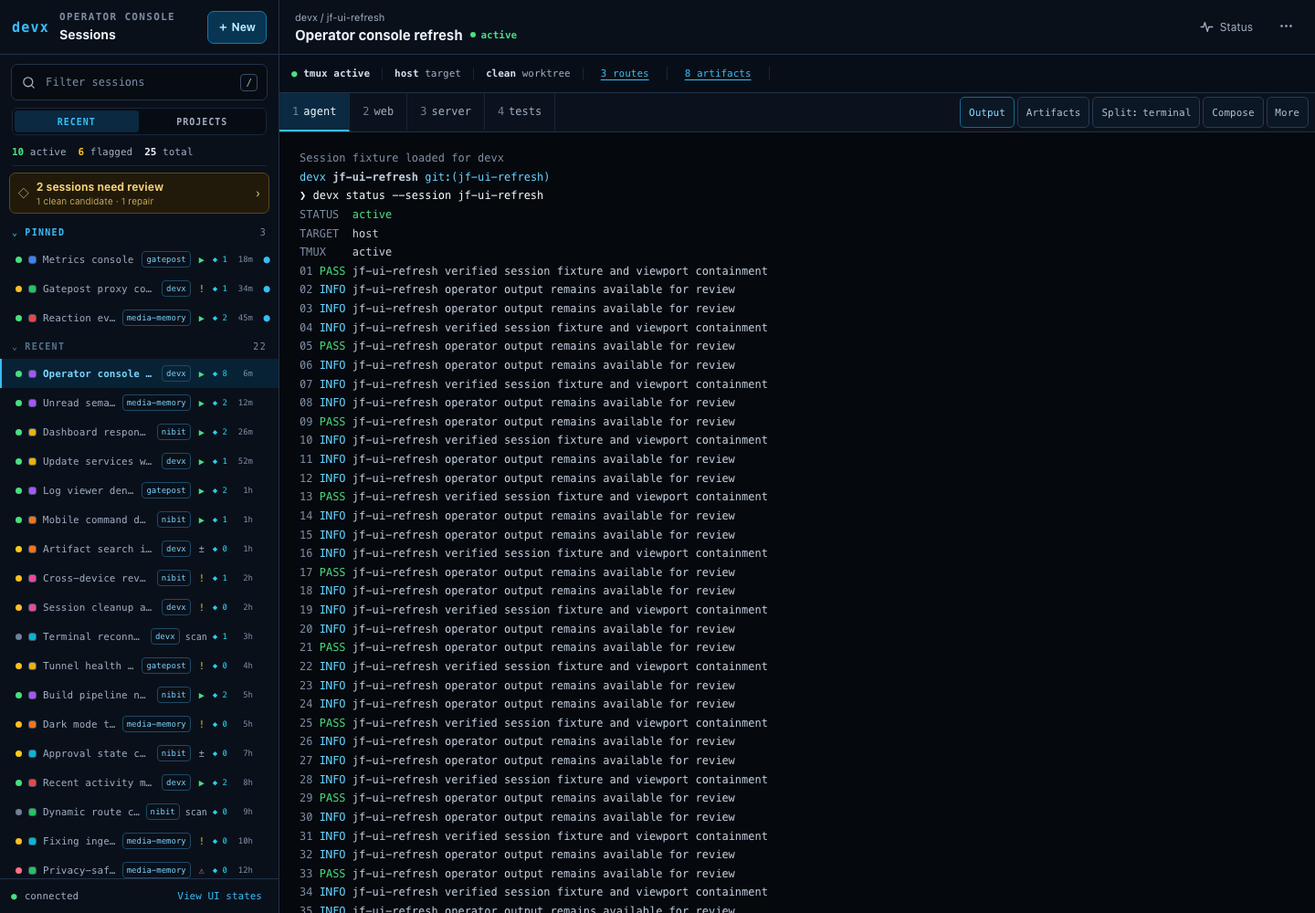
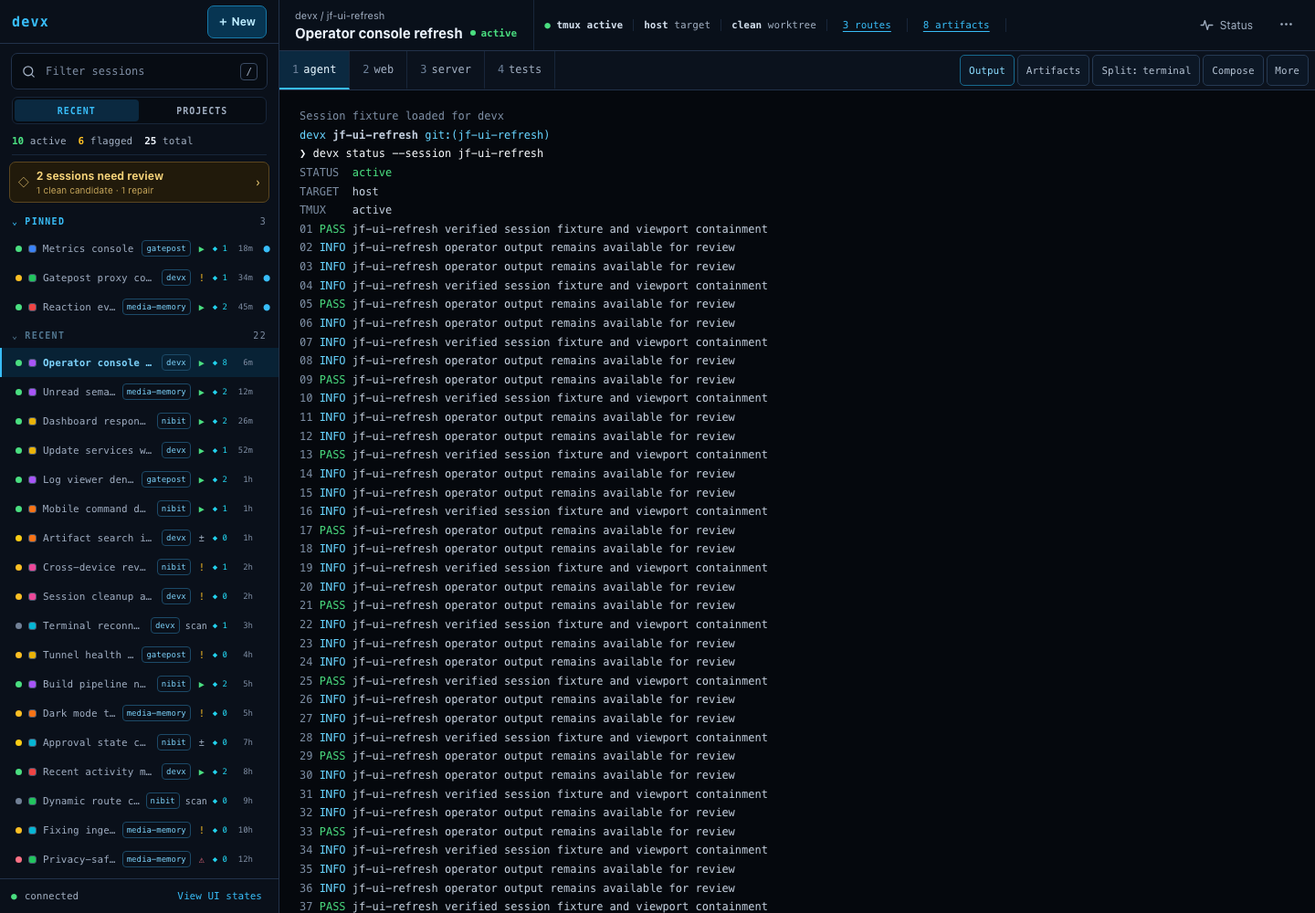
address header, artifact wrap, new-session parity, and mobile density feedback

diff --git a/design-prototypes/operator-console/index.html b/design-prototypes/operator-console/index.html
@@ -21,9 +21,9 @@
     .icon{width:17px;height:17px;fill:none;stroke:currentColor;stroke-width:1.8;stroke-linecap:round;stroke-linejoin:round;pointer-events:none}
     .shell{display:grid;grid-template-columns:306px minmax(0,1fr);width:100%;height:100dvh;min-width:0;min-height:0;overflow:hidden}.mono{font-family:var(--mono)}
     .navigator{min-width:0;min-height:0;height:100%;display:flex;flex-direction:column;background:var(--nav);border-right:1px solid var(--line);z-index:50;overflow:hidden}
-    .nav-head{height:60px;display:flex;align-items:center;gap:11px;padding:0 13px;border-bottom:1px solid var(--line)}
+    .nav-head{height:48px;display:flex;align-items:center;gap:11px;padding:0 13px;border-bottom:1px solid var(--line)}
     .brand{display:inline-flex;align-items:center;color:var(--blue);font:800 15px var(--mono);letter-spacing:.08em}
-    .title{min-width:0;flex:1}.eyebrow{color:var(--faint);font:700 11px/1 var(--mono);letter-spacing:.12em;text-transform:uppercase;margin-bottom:5px}.title strong{font-size:14px}
+    .nav-head .spacer{flex:1}
     .primary{min-height:36px;display:inline-flex;align-items:center;gap:6px;padding:0 11px;border:1px solid #1778a7;border-radius:7px;background:#073552;color:#bcecff;font-weight:700;font-size:12px}.primary:hover{background:#084567;border-color:var(--blue)}
     .search-wrap{padding:10px 12px 8px}.search{height:40px;display:flex;align-items:center;gap:8px;padding:0 10px;border:1px solid var(--line);border-radius:7px;background:#070c13;color:var(--muted)}.search:focus-within{border-color:var(--blue);color:var(--blue)}
     .search input{min-width:0;flex:1;border:0;outline:0;background:transparent;color:var(--text);font:12px var(--mono)}.search input::placeholder{color:var(--faint)}
@@ -43,27 +43,27 @@
     .meta{display:contents}.badge{display:inline-flex;align-items:center;min-height:18px;padding:1px 4px;border:1px solid #293a52;border-radius:4px;color:#7f91a8;font:9px var(--mono);white-space:nowrap}.badge.good{border-color:#23623a;color:#86efac}.badge.warn{border-color:#73551c;color:#fcd34d}.badge.blue{border:0;color:#22d3ee;padding:0}.session-state{min-width:12px;text-align:center;color:var(--muted);font:10px var(--mono)}.session-state.attention{color:var(--amber)}.session-state.active{color:var(--green)}.session-state.repair{color:var(--red)}.swatch{width:9px;height:9px;border:1px solid #46566d;border-radius:3px;background:#a855f7}
     .no-results{padding:30px 18px;text-align:center;color:var(--muted);font:12px var(--mono)}
     .nav-foot{min-height:38px;display:flex;align-items:center;gap:8px;padding:0 12px;border-top:1px solid var(--line);color:var(--muted);font:11px var(--mono)}.nav-foot button{margin-left:auto;border:0;background:transparent;color:var(--blue)}
-    .workspace{min-width:0;min-height:0;height:100%;display:flex;flex-direction:column;overflow:hidden;background:var(--canvas)}.topbar{height:60px;flex:0 0 auto;display:flex;align-items:center;border-bottom:1px solid var(--line);background:#09101a}.mobile-menu{display:none}
-    .context{min-width:0;flex:1;padding:0 17px}.crumbs{color:var(--muted);font-size:11px}.context-title{display:flex;align-items:center;gap:9px;margin-top:4px}.context-title h1{margin:0;overflow:hidden;font-size:15px;text-overflow:ellipsis;white-space:nowrap}.live-pill{display:inline-flex;align-items:center;gap:5px;color:var(--green);font:700 11px var(--mono)}.live-pill:before{content:"";width:6px;height:6px;border-radius:50%;background:currentColor}
+    .workspace{min-width:0;min-height:0;height:100%;display:flex;flex-direction:column;overflow:hidden;background:var(--canvas)}.topbar{min-height:56px;height:auto;flex:0 0 auto;display:flex;align-items:center;gap:4px;border-bottom:1px solid var(--line);background:#09101a}.mobile-menu{display:none}
+    .context{min-width:0;flex:0 1 auto;max-width:min(42%,430px);padding:0 14px 0 17px}.crumbs{color:var(--muted);font-size:11px}.context-title{display:flex;align-items:center;gap:9px;margin-top:4px}.context-title h1{margin:0;overflow:hidden;font-size:15px;text-overflow:ellipsis;white-space:nowrap}.live-pill{display:inline-flex;align-items:center;gap:5px;color:var(--green);font:700 11px var(--mono)}.live-pill:before{content:"";width:6px;height:6px;border-radius:50%;background:currentColor}
     .top-actions{display:flex;align-items:center;gap:5px;padding:0 12px}.ghost,.icon-btn{min-height:38px;border:1px solid transparent;border-radius:7px;background:transparent;color:var(--muted);font-size:12px}.ghost{display:inline-flex;align-items:center;gap:6px;padding:0 10px}.icon-btn{width:40px}.ghost:hover,.icon-btn:hover,.ghost[aria-expanded="true"],.icon-btn[aria-expanded="true"]{background:#112033;border-color:#2c4766;color:var(--blue)}
-    .facts{min-height:42px;display:flex;align-items:center;border-bottom:1px solid var(--line);background:#080e17;overflow-x:auto;scrollbar-width:thin}.fact{min-width:max-content;padding:0 13px;border-right:1px solid var(--line2);color:var(--muted);font:11px var(--mono)}.fact b{color:#d5e1ef;font-weight:600}.fact .good{color:var(--green)}.fact-button{border:0;background:transparent;color:var(--blue);text-decoration:underline;text-underline-offset:3px}
+    .facts{min-width:0;flex:1;display:flex;align-items:center;align-self:stretch;overflow-x:auto;scrollbar-width:thin;border-left:1px solid var(--line2)}.fact{min-width:max-content;padding:0 11px;border-right:1px solid var(--line2);color:var(--muted);font:11px var(--mono)}.fact b{color:#d5e1ef;font-weight:600}.fact .good{color:var(--green)}.fact-button{border:0;background:transparent;color:var(--blue);text-decoration:underline;text-underline-offset:3px}
     .windowbar{min-height:43px;display:flex;align-items:stretch;border-bottom:1px solid var(--line);background:#0b121d}.tabs{min-width:0;flex:1;display:flex;overflow-x:auto;scrollbar-width:none}.tab{min-width:max-content;padding:0 14px;border:0;border-right:1px solid var(--line2);border-bottom:2px solid transparent;background:transparent;color:var(--muted);font:12px var(--mono)}.tab.active{border-bottom-color:var(--blue);background:#0b2940;color:#e7f7ff}.tab .index{color:#6e829b;margin-right:5px}
     .terminal-actions{display:flex;align-items:center;padding:3px 7px;gap:3px}.action{min-height:34px;display:inline-flex;align-items:center;gap:5px;padding:0 9px;border:1px solid #263a53;border-radius:5px;background:#0c1725;color:#b3c1d2;font:11px var(--mono);white-space:nowrap}.action:hover,.action.active{border-color:#2876a3;background:#102b42;color:#8bdcff}.action.primary-action{border-color:#17698e;color:#8bdcff}.mobile-actions-trigger{display:none;min-height:36px;padding:0 11px;border:1px solid #2876a3;border-radius:5px;background:#0c2b42;color:#a6e8ff;font:700 11px var(--mono);white-space:nowrap}
     .body-row{position:relative;min-width:0;min-height:0;flex:1;display:flex;overflow:hidden}.stage{position:relative;min-width:0;min-height:0;flex:1;display:flex;overflow:hidden;background:#05080d}.pane-wrap{min-width:0;min-height:0;display:flex;flex:1;overflow:hidden}.terminal-pane{min-width:0;min-height:0;flex:1;overflow:hidden}.terminal{height:100%;min-height:0;padding:18px 22px;overflow:auto;color:#c3cfde;font:12px/1.72 var(--mono)}.term-row{white-space:pre-wrap}.dim{color:#7c8da3}.green{color:var(--green)}.cyan{color:#67d4ff}.amber{color:var(--amber)}.command{color:#f6f9fc}.cursor{display:inline-block;width:7px;height:14px;vertical-align:-2px;background:var(--blue)}
-    .artifact-panel{display:none;width:390px;min-width:300px;min-height:0;border-left:1px solid var(--line);background:#0b121d;overflow:hidden;flex-direction:column}.artifact-panel.open{display:flex}.artifact-panel.fullscreen{position:fixed!important;z-index:1000;inset:0!important;width:100%!important;height:100dvh!important;border:0!important}.pane-wrap.horizontal{flex-direction:column}.pane-wrap.horizontal .artifact-panel{width:auto;height:48%;border-left:0;border-top:1px solid var(--line)}.pane-wrap.artifacts-only .terminal-pane{display:none}.pane-wrap.artifacts-only .artifact-panel{width:100%;border-left:0}.artifact-head{min-height:44px;display:flex;align-items:center;gap:7px;padding:5px 8px;border-bottom:1px solid var(--line);background:#0a101a}.artifact-head strong{font:700 12px var(--mono);color:#8bdcff}.artifact-head .spacer{flex:1}.artifact-head label{display:flex;align-items:center;gap:4px;color:var(--muted);font:10px var(--mono)}.artifact-head select{height:28px;border:1px solid #2b4664;border-radius:4px;background:#08101a;color:var(--text);font:10px var(--mono)}.artifact-tool{min-height:30px;padding:0 7px;border:1px solid #2b4664;border-radius:4px;background:#0e1c2c;color:#b8c6d8;font:10px var(--mono);white-space:nowrap}.artifact-tool:hover{border-color:#2980ad;color:#9ee6ff}.artifact-mobile-menu{display:none}.artifact-list-wrap{height:190px;flex:0 0 auto;overflow:auto;border-bottom:1px solid var(--line)}.artifact-list-wrap.collapsed{display:none}.artifact-resizer{height:7px;flex:0 0 auto;border:0;border-bottom:1px solid var(--line);background:#111d2c;cursor:row-resize}.artifact-resizer:hover{background:#115072}.artifact-list-item{width:100%;min-height:45px;display:block;padding:7px 10px;border:0;border-bottom:1px solid var(--line2);background:transparent;text-align:left}.artifact-list-item:hover{background:#102033}.artifact-list-item.selected{background:#0a2940;box-shadow:inset 2px 0 var(--blue)}.artifact-folder{padding:7px 10px 5px;border-bottom:1px solid var(--line2);background:#08101a;color:#6f8ba8;font:800 9px var(--mono);letter-spacing:.08em;text-transform:uppercase}.artifact-list-item b{display:block;overflow:hidden;color:#dce7f3;font:11px var(--mono);text-overflow:ellipsis;white-space:nowrap}.artifact-list-item span{display:block;margin-top:3px;color:var(--faint);font:9px var(--mono)}.artifact-preview-head{min-height:43px;display:flex;align-items:center;gap:5px;padding:5px 9px;border-bottom:1px solid var(--line)}.artifact-preview-head .preview-title{min-width:0;flex:1}.artifact-preview-head b,.artifact-preview-head small{display:block;overflow:hidden;text-overflow:ellipsis;white-space:nowrap}.artifact-preview-head b{font-size:11px}.artifact-preview-head small{margin-top:2px;color:var(--faint);font:9px var(--mono)}.artifact-preview{min-height:0;flex:1;overflow:auto;padding:16px;background:#070b11}.artifact-preview.dragging{outline:2px dashed var(--blue);outline-offset:-8px;background:#082033}.artifact-preview pre{margin:0;color:#d4deea;font:11px/1.65 var(--mono);white-space:pre-wrap}.artifact-preview iframe,.artifact-preview video{display:block;width:100%;min-height:260px;border:1px solid var(--line);border-radius:6px;background:#fff}.artifact-intake{color:var(--faint);font:9px var(--mono);white-space:nowrap}.artifact-preview .jsx-card{max-width:620px;margin:12px auto;padding:24px;border:1px solid #315071;border-radius:12px;background:linear-gradient(145deg,#102e47,#101826)}.artifact-preview .jsx-card h2{margin:0;color:#7dd3fc}.artifact-preview .jsx-card p{color:#bac7d8;line-height:1.6}.small-btn{min-height:32px;padding:0 8px;border:1px solid #2b4664;border-radius:5px;background:#102037;color:#9bdfff;font:11px var(--mono)}
+    .artifact-panel{display:none;width:390px;min-width:300px;min-height:0;border-left:1px solid var(--line);background:#0b121d;overflow:hidden;flex-direction:column}.artifact-panel.open{display:flex}.artifact-panel.fullscreen{position:fixed!important;z-index:1000;inset:0!important;width:100%!important;height:100dvh!important;border:0!important}.pane-wrap.horizontal{flex-direction:column}.pane-wrap.horizontal .artifact-panel{width:auto;height:48%;border-left:0;border-top:1px solid var(--line)}.pane-wrap.artifacts-only .terminal-pane{display:none}.pane-wrap.artifacts-only .artifact-panel{width:100%;border-left:0}.artifact-head{min-height:44px;display:flex;flex-wrap:wrap;row-gap:4px;align-items:center;gap:7px;padding:6px 8px;border-bottom:1px solid var(--line);background:#0a101a}.artifact-head strong{font:700 12px var(--mono);color:#8bdcff}.artifact-head .spacer{flex:1}.artifact-head label{display:flex;align-items:center;gap:4px;color:var(--muted);font:10px var(--mono)}.artifact-head select{height:28px;border:1px solid #2b4664;border-radius:4px;background:#08101a;color:var(--text);font:10px var(--mono)}.artifact-tool{min-height:30px;padding:0 7px;border:1px solid #2b4664;border-radius:4px;background:#0e1c2c;color:#b8c6d8;font:10px var(--mono);white-space:nowrap}.artifact-tool:hover{border-color:#2980ad;color:#9ee6ff}.artifact-mobile-menu{display:none}.artifact-list-wrap{height:190px;flex:0 0 auto;overflow:auto;border-bottom:1px solid var(--line)}.artifact-list-wrap.collapsed{display:none}.artifact-resizer{height:7px;flex:0 0 auto;border:0;border-bottom:1px solid var(--line);background:#111d2c;cursor:row-resize}.artifact-resizer:hover{background:#115072}.artifact-list-item{width:100%;min-height:45px;display:block;padding:7px 10px;border:0;border-bottom:1px solid var(--line2);background:transparent;text-align:left}.artifact-list-item:hover{background:#102033}.artifact-list-item.selected{background:#0a2940;box-shadow:inset 2px 0 var(--blue)}.artifact-folder{padding:7px 10px 5px;border-bottom:1px solid var(--line2);background:#08101a;color:#6f8ba8;font:800 9px var(--mono);letter-spacing:.08em;text-transform:uppercase}.artifact-list-item b{display:block;overflow:hidden;color:#dce7f3;font:11px var(--mono);text-overflow:ellipsis;white-space:nowrap}.artifact-list-item span{display:block;margin-top:3px;color:var(--faint);font:9px var(--mono)}.artifact-preview-head{min-height:43px;display:flex;flex-wrap:wrap;row-gap:4px;align-items:center;gap:5px;padding:5px 9px;border-bottom:1px solid var(--line)}.artifact-preview-head .preview-title{min-width:0;flex:1}.artifact-preview-head b,.artifact-preview-head small{display:block;overflow:hidden;text-overflow:ellipsis;white-space:nowrap}.artifact-preview-head b{font-size:11px}.artifact-preview-head small{margin-top:2px;color:var(--faint);font:9px var(--mono)}.artifact-preview{min-height:0;flex:1;overflow:auto;padding:16px;background:#070b11}.artifact-preview.dragging{outline:2px dashed var(--blue);outline-offset:-8px;background:#082033}.artifact-preview pre{margin:0;color:#d4deea;font:11px/1.65 var(--mono);white-space:pre-wrap}.artifact-preview iframe,.artifact-preview video{display:block;width:100%;min-height:260px;border:1px solid var(--line);border-radius:6px;background:#fff}.artifact-intake{color:var(--faint);font:9px var(--mono);white-space:nowrap}.artifact-preview .jsx-card{max-width:620px;margin:12px auto;padding:24px;border:1px solid #315071;border-radius:12px;background:linear-gradient(145deg,#102e47,#101826)}.artifact-preview .jsx-card h2{margin:0;color:#7dd3fc}.artifact-preview .jsx-card p{color:#bac7d8;line-height:1.6}.small-btn{min-height:32px;padding:0 8px;border:1px solid #2b4664;border-radius:5px;background:#102037;color:#9bdfff;font:11px var(--mono)}
     .status-panel{display:none;min-width:0;min-height:0;flex:0 0 320px;border-left:1px solid var(--line);background:#0d1521;overflow:auto}.status-panel.open{display:block}.panel-head{min-height:52px;display:flex;align-items:center;padding:0 13px;border-bottom:1px solid var(--line)}.panel-head strong{font-size:13px}.panel-head button{margin-left:auto}.detail{padding:12px 14px;border-bottom:1px solid var(--line2)}.detail h2{margin:0 0 8px;color:var(--muted);font:700 11px var(--mono);text-transform:uppercase;letter-spacing:.08em}.detail p{margin:5px 0;color:#dbe5f1;font-size:12px}.route-link{display:flex;gap:8px;min-height:32px;align-items:center;color:#8bdcff;text-decoration:none;font:11px var(--mono)}
     .composer{display:none;position:absolute;z-index:15;left:7%;right:7%;bottom:22px;padding:10px;border:1px solid #245f85;border-radius:10px;background:#0d1827;box-shadow:0 18px 60px #0009}.composer.open{display:block}.composer-head{display:flex;margin-bottom:7px;color:#8bdcff;font:11px var(--mono)}.composer-head span:last-child{margin-left:auto;color:var(--muted)}.composer textarea{width:100%;min-height:74px;resize:vertical;padding:10px;border:1px solid #2a3e59;border-radius:6px;background:#050a11;color:var(--text);font:12px/1.5 var(--mono)}.composer-foot{display:flex;gap:7px;align-items:center;margin-top:8px}.composer-foot .spacer{flex:1}
     .drop-overlay{display:none;position:absolute;inset:10px;z-index:20;place-items:center;border:2px dashed var(--blue);border-radius:12px;background:#082f49dd;color:#b9edff;font:700 15px var(--mono)}.stage.dragging .drop-overlay{display:grid}
     .mobile-composer,.softkeys,.mobile-bottom{display:none}.scrim{display:none}.popover{position:absolute;z-index:1100;width:280px;padding:6px;border:1px solid #304561;border-radius:8px;background:#0d1725;box-shadow:0 20px 60px #0009}.popover button{width:100%;min-height:42px;padding:0 10px;border:0;border-radius:5px;background:transparent;text-align:left;color:#d4deea;font-size:12px}.popover button:hover{background:#102d47;color:#9fe4ff}.popover .danger{color:#fda4af}.session-menu{top:52px;right:10px}.actions-menu{top:108px;right:8px}.artifact-actions-menu{position:fixed;top:52px;right:8px}.menu-label{padding:7px 10px 4px;color:#698096;font:700 10px var(--mono);text-transform:uppercase;letter-spacing:.08em}.menu-divider{height:1px;margin:4px;background:var(--line)}.output-reader{position:fixed;z-index:1200;inset:0;display:flex;flex-direction:column;background:#020711}.output-reader-head{min-height:48px;display:flex;align-items:center;gap:10px;padding:0 14px;border-bottom:1px solid var(--line);background:#09111d}.output-reader-title{min-width:0;flex:1}.output-reader-title strong,.output-reader-title span{display:block;overflow:hidden;text-overflow:ellipsis;white-space:nowrap}.output-reader-title strong{color:#8bdcff;font:700 12px var(--mono)}.output-reader-title span{margin-top:3px;color:var(--muted);font:10px var(--mono)}.output-reader-body{min-height:0;flex:1;overflow:auto;padding:clamp(16px,3vw,42px);font:13px/1.75 var(--mono);color:#d2ddeb;white-space:pre-wrap}.output-reader-body pre{max-width:1100px;margin:0 auto;white-space:pre-wrap}.toast-stack{position:fixed;z-index:160;right:16px;bottom:16px;display:grid;gap:8px}.toast{width:min(340px,calc(100vw - 24px));padding:12px;border:1px solid #2b5776;border-radius:8px;background:#0d1b2b;box-shadow:0 16px 40px #0008;font-size:12px}.toast b{display:block;color:#8bdcff;margin-bottom:4px}.toast.flag{border-color:#6c521e}.toast.flag b{color:var(--amber)}.toast-media{display:grid;grid-template-columns:64px minmax(0,1fr);gap:10px}.toast-media img{width:64px;height:48px;object-fit:cover;border:1px solid var(--line);border-radius:5px;background:#06101a}.toast-actions{display:flex;gap:6px;margin-top:10px}.toast-actions button{min-height:32px;padding:0 8px;border:1px solid #315071;border-radius:5px;background:#102037;color:#bcecff}
-    dialog{width:min(620px,calc(100vw - 24px));max-height:calc(100dvh - 30px);padding:0;border:1px solid #315071;border-radius:10px;background:#0d1725;color:var(--text);box-shadow:0 30px 90px #000c}dialog::backdrop{background:#02050acc;backdrop-filter:blur(2px)}.dialog-head{min-height:56px;display:flex;align-items:center;padding:0 15px;border-bottom:1px solid var(--line)}.dialog-head strong{font-size:14px}.dialog-head button{margin-left:auto}.dialog-body{padding:15px;overflow:auto}.field{display:grid;gap:6px;margin-bottom:13px;color:var(--muted);font-size:12px}.field input,.field textarea,.field select{min-height:42px;padding:8px 10px;border:1px solid #334964;border-radius:6px;background:#070d15;color:var(--text)}.dialog-foot{display:flex;justify-content:flex-end;gap:8px;padding:12px 15px;border-top:1px solid var(--line)}
+    dialog{width:min(620px,calc(100vw - 24px));max-height:calc(100dvh - 30px);padding:0;border:1px solid #315071;border-radius:10px;background:#0d1725;color:var(--text);box-shadow:0 30px 90px #000c}dialog::backdrop{background:#02050acc;backdrop-filter:blur(2px)}.dialog-head{min-height:56px;display:flex;align-items:center;padding:0 15px;border-bottom:1px solid var(--line)}.dialog-head strong{font-size:14px}.dialog-head button{margin-left:auto}.dialog-body{padding:15px;overflow:auto}.field{display:grid;gap:6px;margin-bottom:13px;color:var(--muted);font-size:12px}.field input,.field textarea,.field select{min-height:42px;padding:8px 10px;border:1px solid #334964;border-radius:6px;background:#070d15;color:var(--text)}.type-field{border:0;padding:0;margin:0 0 13px}.type-field legend{display:flex;width:100%;gap:8px;margin-bottom:6px;padding:0;color:var(--muted);font-size:12px}.type-default{margin-left:auto;color:var(--faint);font:11px var(--mono)}.type-options{display:flex;gap:8px}.type-option{flex:1;display:flex;align-items:center;justify-content:center;gap:8px;min-height:42px;border:1px solid #334964;border-radius:6px;background:#070d15;color:var(--muted);font:12px var(--mono);cursor:pointer}.type-option input{accent-color:var(--blue2)}.type-option:has(input:checked){border-color:#1778a7;background:#0a2940;color:#8bdcff}.dialog-foot{display:flex;justify-content:flex-end;gap:8px;padding:12px 15px;border-top:1px solid var(--line)}
     .switch-list{display:grid;gap:4px}.switch-item{min-height:54px;padding:8px 10px;border:1px solid transparent;border-radius:7px;background:transparent;text-align:left}.switch-item.selected{border-color:#1778a7;background:#0a2940}.switch-item b{display:block;font-size:12px}.switch-item span{display:block;margin-top:4px;color:var(--muted);font:11px var(--mono)}
     .stale-grid,.state-grid{display:grid;grid-template-columns:repeat(2,minmax(0,1fr));gap:9px}.state-card{padding:12px;border:1px solid #2a3d56;border-radius:7px;background:#0a121d}.state-card h3{margin:0 0 6px;font-size:12px}.state-card p{margin:0;color:var(--muted);font-size:11px;line-height:1.45}.state-card.error{border-color:#653043}.state-card.reconnect{border-color:#6d5322}.stale-row{padding:11px;border:1px solid #3d4856;border-radius:7px}.stale-row b{display:block;font-size:12px}.stale-row p{margin:6px 0;color:var(--muted);font-size:11px}.stale-row .row-actions{display:flex;gap:6px;flex-wrap:wrap}.danger-btn{min-height:36px;padding:0 10px;border:1px solid #7e3344;border-radius:6px;background:#2c111a;color:#fda4af;font-size:12px}
     @media(max-width:1180px){.status-panel{position:absolute;z-index:35;inset:0 0 0 auto;width:min(360px,100%);border-left:1px solid var(--line);box-shadow:-18px 0 50px #0009}.status-panel.open{display:block}.pane-wrap.horizontal .artifact-panel{height:48%}}
     @media(max-width:1023px){
-      .shell{display:block}.navigator{position:fixed;inset:0 auto 0 0;width:min(360px,calc(100vw - 44px));transform:translateX(-105%);visibility:hidden;transition:transform .18s,visibility 0s linear .18s;box-shadow:22px 0 70px #000b}.navigator.open{transform:translateX(0);visibility:visible;transition-delay:0s}.scrim{position:fixed;inset:0;z-index:45;background:#000a}.scrim.open{display:block}.workspace{height:100dvh}.mobile-menu{display:grid;width:48px;height:100%;place-items:center;border:0;border-right:1px solid var(--line);background:transparent;color:var(--muted)}.topbar{height:56px}.facts{min-height:40px}.terminal{padding:16px}.terminal-actions .action{display:none}.mobile-actions-trigger{display:inline-flex;align-items:center}.actions-menu{top:101px}.artifact-panel{width:min(440px,100%)}
+      .shell{display:block}.navigator{position:fixed;inset:0 auto 0 0;width:min(360px,calc(100vw - 44px));transform:translateX(-105%);visibility:hidden;transition:transform .18s,visibility 0s linear .18s;box-shadow:22px 0 70px #000b}.navigator.open{transform:translateX(0);visibility:visible;transition-delay:0s}.scrim{position:fixed;inset:0;z-index:45;background:#000a}.scrim.open{display:block}.workspace{height:100dvh}.mobile-menu{display:grid;width:48px;align-self:stretch;place-items:center;border:0;border-right:1px solid var(--line);background:transparent;color:var(--muted)}.topbar{min-height:52px}.terminal{padding:16px}.terminal-actions .action{display:none}.mobile-actions-trigger{display:inline-flex;align-items:center}.actions-menu{top:101px}.artifact-panel{width:min(440px,100%)}
     }
     @media(max-width:600px){
-      body{font-size:12px}.workspace{height:calc(100dvh - 56px);padding-bottom:0}.context{padding:0 10px}.crumbs{font-size:10px}.context-title h1{font-size:13px}.top-actions{padding:0 6px}.top-actions .ghost span{display:none}.top-actions .ghost{width:40px;padding:0;justify-content:center}.facts .fact:nth-child(3){display:none}.windowbar{min-height:42px}.mobile-actions-trigger{display:inline-flex}.terminal{padding:12px;font-size:10.5px;line-height:1.6;padding-bottom:14px}.desktop-only{display:none}.body-row{padding-bottom:0}.status-panel{position:absolute;z-index:35;inset:0;display:none}.status-panel.open{display:block}.artifact-panel.open{position:absolute;z-index:30;inset:0;width:auto;border-left:0}.composer{left:8px;right:8px;bottom:8px}.mobile-composer{display:block;flex:0 0 auto;border-top:1px solid var(--line);background:#091321;padding:7px}.mobile-compose-row{display:flex;align-items:end;gap:5px}.mobile-compose-row textarea{min-width:0;flex:1;min-height:44px;max-height:120px;padding:10px;border:1px solid #2e4664;border-radius:7px;background:#050a11;color:var(--text);resize:none;font:12px var(--mono)}.touch{min-width:44px;min-height:44px;border:1px solid #2d4665;border-radius:7px;background:#102039;color:#a9dfff}.touch.primary-touch{border-color:#1682b8;background:#073552;color:#bdeeff}.softkeys.open{display:grid;grid-template-columns:repeat(5,1fr);gap:1px;margin-top:7px;background:#263a54}.softkeys button{min-height:44px;border:0;background:#0b1421;color:#b4c1d2;font:11px var(--mono)}.mobile-bottom{position:fixed;z-index:44;left:0;right:0;bottom:0;height:56px;display:grid;grid-template-columns:repeat(4,1fr);border-top:1px solid var(--line);background:#09111d}.mobile-tab{position:relative;display:flex;flex-direction:column;align-items:center;justify-content:center;gap:2px;border:0;background:transparent;color:var(--muted);font:11px var(--mono)}.mobile-tab.active{color:var(--blue);background:#0a2940}.mobile-tab .icon{width:16px;height:16px}.mobile-tab .notice{position:absolute;top:7px;right:calc(50% - 18px);width:7px;height:7px;border-radius:50%;background:var(--amber)}.toast-stack{right:6px;bottom:64px}.actions-menu{top:99px}.stale-grid,.state-grid{grid-template-columns:1fr}.dialog-head{min-height:52px}.workspace.panel-destination .windowbar,.workspace.panel-destination .mobile-composer,.workspace.panel-destination .composer{display:none!important}.workspace.panel-destination .body-row{flex:1}.workspace.panel-destination .artifact-panel.open,.workspace.panel-destination .status-panel.open{inset:0}
+      body{font-size:12px}.workspace{height:calc(100dvh - 56px);padding-bottom:0}.context{padding:0 10px}.crumbs{font-size:10px}.context-title h1{font-size:13px}.top-actions{padding:0 6px}.top-actions .ghost span{display:none}.top-actions .ghost{width:40px;padding:0;justify-content:center}.context{max-width:none;flex:1}.facts{display:none}.windowbar{min-height:42px}.mobile-actions-trigger{display:inline-flex}.terminal{padding:12px;font-size:10.5px;line-height:1.6;padding-bottom:14px}.desktop-only{display:none}.body-row{padding-bottom:0}.status-panel{position:absolute;z-index:35;inset:0;display:none}.status-panel.open{display:block}.artifact-panel.open{position:absolute;z-index:30;inset:0;width:auto;border-left:0}.composer{left:8px;right:8px;bottom:8px}.mobile-composer{display:block;flex:0 0 auto;border-top:1px solid var(--line);background:#091321;padding:7px}.mobile-compose-row{display:flex;align-items:end;gap:5px}.mobile-compose-row textarea{min-width:0;flex:1;min-height:44px;max-height:120px;padding:10px;border:1px solid #2e4664;border-radius:7px;background:#050a11;color:var(--text);resize:none;font:12px var(--mono)}.touch{min-width:44px;min-height:44px;border:1px solid #2d4665;border-radius:7px;background:#102039;color:#a9dfff}.touch.primary-touch{border-color:#1682b8;background:#073552;color:#bdeeff}.softkeys.open{display:grid;grid-template-columns:repeat(5,1fr);gap:1px;margin-top:7px;background:#263a54}.softkeys button{min-height:44px;border:0;background:#0b1421;color:#b4c1d2;font:11px var(--mono)}.mobile-bottom{position:fixed;z-index:44;left:0;right:0;bottom:0;height:56px;display:grid;grid-template-columns:repeat(4,1fr);border-top:1px solid var(--line);background:#09111d}.mobile-tab{position:relative;display:flex;flex-direction:column;align-items:center;justify-content:center;gap:2px;border:0;background:transparent;color:var(--muted);font:11px var(--mono)}.mobile-tab.active{color:var(--blue);background:#0a2940}.mobile-tab .icon{width:16px;height:16px}.mobile-tab .notice{position:absolute;top:7px;right:calc(50% - 18px);width:7px;height:7px;border-radius:50%;background:var(--amber)}.toast-stack{right:6px;bottom:64px}.actions-menu{top:99px}.stale-grid,.state-grid{grid-template-columns:1fr}.dialog-head{min-height:52px}.workspace.panel-destination .windowbar,.workspace.panel-destination .mobile-composer,.workspace.panel-destination .composer{display:none!important}.workspace.panel-destination .body-row{flex:1}.workspace.panel-destination .artifact-panel.open,.workspace.panel-destination .status-panel.open{inset:0}
     }
     @media(max-width:1023px){.artifact-head label,.artifact-head .wide-tool{display:none}.artifact-mobile-menu{display:inline-flex}.artifact-panel.open{min-width:0}.artifact-preview-head{flex-wrap:wrap}.artifact-preview-head .preview-title{flex-basis:100%}}
     @media(pointer:coarse){button,.route-link{min-height:44px}.tab{min-height:44px}.session{height:44px}.session-pin{width:44px;opacity:1}.project-toggle{height:36px}}
@@ -75,7 +75,7 @@
 <main class="shell">
   <div class="scrim" id="scrim"></div>
   <nav class="navigator" id="navigator" aria-label="Projects and sessions">
-    <div class="nav-head"><div class="brand" aria-label="devx">devx</div><div class="title"><div class="eyebrow">Operator console</div><strong>Sessions</strong></div><button class="primary" id="new-session">＋ New</button></div>
+    <div class="nav-head"><div class="brand" aria-label="devx">devx</div><span class="spacer"></span><button class="primary" id="new-session">＋ New</button></div>
     <div class="search-wrap"><label class="search"><svg class="icon"><use href="#search"/></svg><input id="session-search" type="search" placeholder="Filter sessions" aria-label="Filter sessions by name, project, or branch"/><span class="keycap">/</span></label></div>
     <div class="view-toggle" role="group" aria-label="Session list view"><button id="view-recent" aria-pressed="true">Recent</button><button id="view-projects" aria-pressed="false">Projects</button></div>
     <span class="sr-only" id="live-region" aria-live="polite"></span>
@@ -85,8 +85,7 @@
     <div class="nav-foot"><span style="color:var(--green)">●</span><span>connected</span><button id="state-gallery">View UI states</button></div>
   </nav>
   <section class="workspace" id="workspace" aria-label="Active session workspace">
-    <header class="topbar"><button class="mobile-menu" id="open-nav" aria-label="Open sessions" aria-expanded="false"><svg class="icon"><use href="#menu"/></svg></button><div class="context"><div class="crumbs"><span id="project-label">devx</span> / <span id="branch-label">jf-ui-refresh</span></div><div class="context-title"><h1 id="session-title" title="Operator console refresh">Operator console refresh</h1><span class="live-pill" id="status-label">active</span></div></div><div class="top-actions"><button class="ghost" id="status-toggle" aria-expanded="false"><svg class="icon"><use href="#activity"/></svg><span>Status</span></button><button class="icon-btn" id="session-options" aria-label="Session actions" aria-expanded="false"><svg class="icon"><use href="#more"/></svg></button></div></header>
-    <div class="facts" id="session-facts" aria-label="Active session facts"></div>
+    <header class="topbar"><button class="mobile-menu" id="open-nav" aria-label="Open sessions" aria-expanded="false"><svg class="icon"><use href="#menu"/></svg></button><div class="context"><div class="crumbs"><span id="project-label">devx</span> / <span id="branch-label">jf-ui-refresh</span></div><div class="context-title"><h1 id="session-title" title="Operator console refresh">Operator console refresh</h1><span class="live-pill" id="status-label">active</span></div></div><div class="facts" id="session-facts" aria-label="Active session facts"></div><div class="top-actions"><button class="ghost" id="status-toggle" aria-expanded="false"><svg class="icon"><use href="#activity"/></svg><span>Status</span></button><button class="icon-btn" id="session-options" aria-label="Session actions" aria-expanded="false"><svg class="icon"><use href="#more"/></svg></button></div></header>
     <div class="windowbar"><div class="tabs" role="tablist" aria-label="Terminal windows"><button class="tab active" role="tab" aria-selected="true"><span class="index">1</span>agent</button><button class="tab" role="tab" aria-selected="false"><span class="index">2</span>web</button><button class="tab" role="tab" aria-selected="false"><span class="index">3</span>server</button><button class="tab" role="tab" aria-selected="false"><span class="index">4</span>tests</button></div><div class="terminal-actions" aria-label="Workspace actions"><button class="action primary-action" data-action="view" title="Open full-screen terminal output reader">Output</button><button class="action" data-action="artifacts" title="Open or close the artifact workspace">Artifacts</button><button class="action" data-action="split" title="Cycle terminal and artifact layout">Split: <span id="split-label">terminal</span></button><button class="action" data-action="compose" title="Compose a prompt (Ctrl or Command K)">Compose</button><button class="action" id="more-actions" title="More workspace actions" aria-expanded="false">More</button><button class="mobile-actions-trigger" id="mobile-actions" aria-label="Open workspace actions" aria-expanded="false">Actions</button></div></div>
     <div class="body-row"><div class="stage" id="stage"><div class="pane-wrap" id="pane-wrap"><div class="terminal-pane"><div class="terminal" id="terminal-content" aria-label="Terminal output"></div></div>
       <aside class="artifact-panel" id="artifact-panel" aria-labelledby="artifact-heading"><div class="artifact-head"><strong id="artifact-heading" tabindex="-1">Artifacts</strong><span class="artifact-intake">Paste or drop files</span><span class="spacer"></span><label>Sort <select id="artifact-sort" aria-label="Sort artifacts"><option value="newest">Newest</option><option value="oldest">Oldest</option><option value="title">Title</option></select></label><button class="artifact-tool wide-tool" id="artifact-list-toggle" title="Show or hide artifact list">Hide list</button><button class="artifact-tool wide-tool" id="artifact-fullscreen" title="Use the full viewport">Full Screen</button><button class="artifact-tool artifact-mobile-menu" id="artifact-menu-trigger" aria-label="Open artifact actions" aria-controls="artifact-actions-menu" aria-expanded="false">Artifact actions</button><button class="artifact-tool wide-tool" data-artifact-command="upload">Upload</button><button class="artifact-tool wide-tool" data-action="new-artifact">New</button><button class="artifact-tool wide-tool" data-artifact-command="refresh">Refresh</button><button class="artifact-tool wide-tool" data-artifact-command="close">Close</button></div><div class="artifact-list-wrap" id="artifact-list"></div><button class="artifact-resizer" id="artifact-resizer" aria-label="Resize artifact list" title="Drag to resize artifact list"></button><div class="artifact-preview-head" id="artifact-preview-head"></div><div class="artifact-preview" id="artifact-preview"></div><input id="artifact-upload" type="file" multiple hidden /><div class="popover artifact-actions-menu" id="artifact-actions-menu" role="menu" aria-labelledby="artifact-menu-trigger" hidden><div class="menu-label">Artifact controls</div><button role="menuitem" data-artifact-command="sort">Sort: newest</button><button role="menuitem" data-artifact-command="list">Hide artifact list</button><button role="menuitem" data-artifact-command="fullscreen">Full Screen preview</button><button role="menuitem" data-artifact-command="upload">Upload files</button><button role="menuitem" data-action="new-artifact">New text artifact</button><button role="menuitem" data-artifact-command="refresh">Refresh list</button><button role="menuitem" data-artifact-command="close">Close artifacts</button></div></aside></div>
@@ -102,10 +101,10 @@
 <section class="output-reader" id="output-reader" role="dialog" aria-modal="true" aria-labelledby="output-reader-heading" hidden><header class="output-reader-head"><div class="output-reader-title"><strong id="output-reader-heading" tabindex="-1">Terminal Output</strong><span id="output-reader-session"></span></div><a class="artifact-tool" id="output-open-tab" href="#output" target="_blank" rel="noreferrer">Open Tab</a><button class="artifact-tool" id="output-close">Close</button></header><div class="output-reader-body" id="output-reader-body" tabindex="0"><pre></pre></div></section>
 <div class="toast-stack" id="toasts"></div>
 <dialog id="quick-dialog"><div class="dialog-head"><strong>Quick switcher</strong><span class="mono" style="margin-left:auto;color:var(--muted)">⌘/Ctrl P</span><button class="icon-btn" data-close-dialog aria-label="Close">×</button></div><div class="dialog-body"><label class="field">Find a session<input id="quick-input" placeholder="Search by session or project" autocomplete="off"/></label><div class="switch-list"><button class="switch-item selected" data-branch="jf-ui-refresh" aria-current="true"><b>Operator console refresh</b><span>devx · jf-ui-refresh</span></button><button class="switch-item" data-branch="jf-gatepost-proxy"><b>Gatepost proxy consolidation</b><span>devx · jf-gatepost-proxy · flagged</span></button><button class="switch-item" data-branch="jf-unread-audit"><b>Unread semantics audit</b><span>media-memory · jf-unread-audit</span></button></div></div></dialog>
-<dialog id="new-dialog"><div class="dialog-head"><strong>New session</strong><button class="icon-btn" data-close-dialog aria-label="Close">×</button></div><form id="new-form"><div class="dialog-body"><label class="field">Project<input id="new-project" value="devx" required/></label><label class="field">Session name<input id="new-name" placeholder="feature-name" required aria-describedby="new-error"/></label><span class="sr-only" id="new-error" aria-live="polite"></span><label class="field">Target<select id="new-target" style="min-height:42px;background:#070d15;color:var(--text);border:1px solid #334964;border-radius:6px;padding:8px"><option>host</option><option>docker</option><option>gatepost</option></select></label></div><div class="dialog-foot"><button class="small-btn" type="button" data-close-dialog>Cancel</button><button class="primary" id="create-session" type="submit" disabled>Create session</button></div></form></dialog>
+<dialog id="new-dialog"><div class="dialog-head"><strong>New session</strong><button class="icon-btn" data-close-dialog aria-label="Close">×</button></div><form id="new-form"><div class="dialog-body"><label class="field">Branch / session name<input id="new-name" placeholder="feature/my-branch" required aria-describedby="new-error"/></label><span class="sr-only" id="new-error" aria-live="polite"></span><label class="field">Project<select id="new-project"><option>devx</option><option>gatepost</option><option>media-memory</option><option>nibit</option></select></label><fieldset class="type-field"><legend>Session type <span class="type-default">default: host</span></legend><div class="type-options"><label class="type-option"><input type="radio" name="new-target" value="host" checked/><span>host</span></label><label class="type-option"><input type="radio" name="new-target" value="gatepost"/><span>gatepost</span></label><label class="type-option"><input type="radio" name="new-target" value="docker"/><span>docker</span></label></div></fieldset></div><div class="dialog-foot"><button class="small-btn" type="button" data-close-dialog>Cancel</button><button class="primary" id="create-session" type="submit" disabled>Create session</button></div></form></dialog>
 <dialog id="generic-dialog"><div class="dialog-head"><strong id="generic-title">Action</strong><button class="icon-btn" data-close-dialog aria-label="Close">×</button></div><div class="dialog-body" id="generic-body"></div><div class="dialog-foot"><button class="small-btn" data-close-dialog>Close</button></div></dialog>
 <dialog id="stale-dialog"><div class="dialog-head"><strong>Stale session review</strong><button class="icon-btn" data-close-dialog aria-label="Close">×</button></div><div class="dialog-body"><p style="margin-top:0;color:var(--muted)">Review derived status reasons before cleanup. Clean candidates require a second confirmation to prune.</p><div class="stale-grid"><div class="stale-row"><b>mobile-composer</b><p>Cleanup candidate · stopped and full scan found a clean worktree.</p><div class="row-actions"><button class="small-btn" id="prune-action">Prune clean…</button><button class="small-btn" disabled title="This fixture is not available in the session list">Open unavailable in fixture</button></div></div><div class="stale-row"><b>privacy-safe-mcp</b><p><span style="color:var(--red)">Repair</span> · worktree is missing or inaccessible.</p><div class="row-actions"><button class="small-btn" id="repair-action">Repair in terminal</button><button class="small-btn" id="reviewed-action">Mark reviewed</button></div></div></div></div></dialog>
 <dialog id="states-dialog"><div class="dialog-head"><strong>Shell state gallery</strong><button class="icon-btn" data-close-dialog aria-label="Close">×</button></div><div class="dialog-body"><div class="state-grid"><div class="state-card"><h3>Loading sessions</h3><p>Skeleton rows and “Loading sessions…” keep the shell stable.</p></div><div class="state-card error"><h3>API error</h3><p>Inline error banner retains the previous list and offers Retry.</p></div><div class="state-card"><h3>Empty fleet</h3><p>No active sessions. Primary action: Create first session.</p></div><div class="state-card"><h3>No results</h3><p>No sessions match the filter. Clear filter remains available.</p></div><div class="state-card reconnect"><h3>Terminal reconnecting</h3><p>Output stays mounted with a reconnect banner and Retry now action.</p></div><div class="state-card"><h3>Deleting</h3><p>Two-step confirmation becomes “Removing session…” progress, then refresh.</p></div><div class="state-card"><h3>Remote image toast</h3><p>Sticky image preview from the CLI with open and dismiss actions.</p><button class="small-btn" id="show-image-toast" style="margin-top:10px">Show placement</button></div><div class="state-card"><h3>Flag toast</h3><p>Fallback notification names the flagged session and reason.</p><button class="small-btn" id="show-flag-toast" style="margin-top:10px">Show placement</button></div><div class="state-card"><h3>Share target</h3><p>Token flow asks for target project/session before creating artifacts.</p></div><div class="state-card"><h3>Image input</h3><p>Attach button, clipboard paste, and drag/drop converge on one confirmation toast.</p></div></div></div></dialog>
-<script src="operator-console.js?v=6"></script>
+<script src="operator-console.js?v=7"></script>
 </body>
 </html>

diff --git a/design-prototypes/operator-console/operator-console.js b/design-prototypes/operator-console/operator-console.js
@@ -482,8 +482,8 @@
   $$('[data-close-dialog]').forEach(button=>button.onclick=()=>button.closest('dialog').close());
   $$('dialog').forEach(dialog=>dialog.addEventListener('close',()=>setTimeout(()=>{const target=dialogReturns.get(dialog);if(target?.isConnected&&!target.closest('[inert]')&&target.offsetParent!==null)target.focus();},0)));
   $('#new-session').onclick=()=>{$('#new-name').value='';$('#create-session').disabled=true;openDialog($('#new-dialog'),$('#new-session'));};
-  const validateNew=()=>{$('#create-session').disabled=!($('#new-project').value.trim()&&$('#new-name').value.trim());}; $('#new-project').oninput=validateNew;$('#new-name').oninput=validateNew;
-  $('#new-form').onsubmit=event=>{event.preventDefault();validateNew();if($('#create-session').disabled)return;const name=$('#new-name').value.trim(),project=$('#new-project').value.trim(),target=$('#new-target').value;let branch=name.toLowerCase().replace(/[^a-z0-9]+/g,'-').replace(/^-|-$/g,'')||`session-${nextCreated}`;while(fixtures[branch])branch=`${branch}-${++nextCreated}`;const item=fixture(name,project,branch,'idle',target,fleet.length,{routes:[],artifacts:[],reason:'new fixture created; no running tmux session yet',activityAt:Date.now(),lastOpenedAt:null});fleet.push(item);fixtures[branch]=item;$('#new-dialog').close();activeBranch=branch;renderFleet();renderSession();toast('Session fixture created',`${name} was added and selected.`);};
+  const validateNew=()=>{$('#create-session').disabled=!($('#new-project').value.trim()&&$('#new-name').value.trim());}; $('#new-project').onchange=validateNew;$('#new-name').oninput=validateNew;
+  $('#new-form').onsubmit=event=>{event.preventDefault();validateNew();if($('#create-session').disabled)return;const name=$('#new-name').value.trim(),project=$('#new-project').value.trim(),target=$('input[name="new-target"]:checked').value;let branch=name.toLowerCase().replace(/[^a-z0-9]+/g,'-').replace(/^-|-$/g,'')||`session-${nextCreated}`;while(fixtures[branch])branch=`${branch}-${++nextCreated}`;const item=fixture(name,project,branch,'idle',target,fleet.length,{routes:[],artifacts:[],reason:'new fixture created; no running tmux session yet',activityAt:Date.now(),lastOpenedAt:null});fleet.push(item);fixtures[branch]=item;$('#new-dialog').close();activeBranch=branch;renderFleet();renderSession();toast('Session fixture created',`${name} was added and selected.`);};
 
   function showRemoteImageToast(){const item=toast('Remote image received','operator-console-preview.png from the CLI fixture',{duration:0});item.innerHTML=`<div class="toast-media"><img alt="Remote CLI image preview" src="${svgPreview('Remote image')}"><div><b>Remote image received</b><span>operator-console-preview.png</span></div></div><div class="toast-actions"><button data-open-image>Open preview</button><button data-dismiss-toast>Dismiss</button></div>`;$('[data-dismiss-toast]',item).onclick=()=>item.remove();$('[data-open-image]',item).onclick=()=>generic('Remote image preview',`<img src="${svgPreview('Remote image')}" alt="Expanded remote CLI image preview" style="max-width:100%">`,null,$('[data-open-image]',item));return item;}
   function showFlagToast(){const item=toast('Session flagged','Gatepost proxy consolidation — proxy route needs operator review.',{flag:true,duration:0});item.innerHTML='<b>Session flagged</b><span>Gatepost proxy consolidation — proxy route needs operator review.</span><div class="toast-actions"><button data-view-flag>View session</button><button data-dismiss-toast>Dismiss</button></div>';$('[data-dismiss-toast]',item).onclick=()=>item.remove();$('[data-view-flag]',item).onclick=()=>{selectSession('jf-gatepost-proxy',{feedback:true});item.remove();};return item;}
